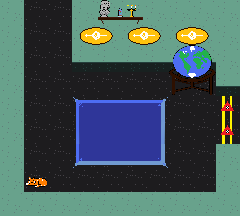
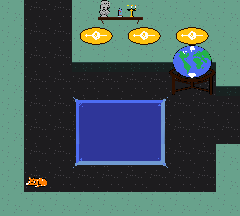
humanas3

Changed region(s): [[0.9042, 0.4444, 0.9917, 0.6667]]

diff --git a/pages/humanas3.html b/pages/humanas3.html
@@ -1,0 +1,136 @@
+<link rel="stylesheet" href="../src/style.css">
+<script src="https://cdnjs.cloudflare.com/ajax/libs/jquery/3.7.1/jquery.min.js" integrity="sha512-v2CJ7UaYy4JwqLDIrZUI/4hqeoQieOmAZNXBeQyjo21dadnwR+8ZaIJVT8EE2iyI61OV8e6M8PP2/4hpQINQ/g==" crossorigin="anonymous" referrerpolicy="no-referrer"></script>
+
+<style>
+    .map {
+    background-image: url("../img/Map015.png");
+    width: calc(15 * var(--grid-cell));
+    height: calc(13 * var(--grid-cell));
+    }
+
+    #taskSet {
+        width: 133px;
+        height: 90px;
+        top: 100px;
+        left: 125;
+    }
+
+    #taskOct {
+        width: 133px;
+        height: 90px;
+        top: 100px;
+        left: 415px;
+    }
+
+    #taskNov {
+        width: 133px;
+        height: 90px;
+        top: 100px;
+        right: 125px;
+    }
+
+    #goBack {
+        width: 95px;
+        height: 230px;
+        left: 0;
+        top: 350;
+    }
+</style>
+
+<body>
+    <div class="main">
+            <div class="child1">
+                <div class="title"><h1>Área de Humanas 3</h1></div>
+                <div id="message"></div>
+                <div class="frame">
+                    <div class="corner_topleft"></div>
+                    <div class="corner_topright"></div>
+                    <div class="corner_bottomleft"></div>
+                    <div class="corner_bottomright"></div>
+                    
+                    
+                    <div class="camera">
+                        <div class="map pixel-art">
+                            <div class="interactable" id="taskSet"></div>
+                            <div class="interactable" id="taskOct"></div>
+                            <div class="interactable" id="taskNov"></div>
+                            <div class="interactable" id="goBack"></div>
+                            <div class="character" facing="right" walking="true">
+                                <div class="shadow pixel-art"></div>
+                                <div class="character_spritesheet pixel-art"></div>
+                            </div>
+                        </div>
+                    </div>
+                </div>
+            </div>
+            <div class="child2">
+                <div class="title" id="att"><h1>Viewer de Atividades</h1></div>
+                <div class="media"></div>
+                <div class="description">
+                    <h3>Nesta área serão exibidas as atividades que você quiser oberservar. 
+                        Clique nos quadros dentro das salas de cada matéria para vê-las. Você 
+                        pode passar o mouse por cima para ver qual atividade é.</h3>
+                </div>
+            </div>
+    </div>
+    
+</body>
+
+<script src="../src/jquery-collision.js"></script>
+<script src="../src/index.js"></script>
+<script>
+    x = 25;
+    y = 90;
+    leftLimit = 15;
+    rightLimit = 195;
+    topLimit = 50;
+    bottomLimit = 160;
+
+    $('.interactable').hover(function() {
+        let id = $(this).attr('id');
+        switch(id) {
+            case 'taskSet':
+                $('#message').html('<h2>Migrações</h2>');
+                break;
+            case 'taskOct':
+                $('#message').html('<h2>Livro Infantil Sobre Existencialismo</h2>');
+                break;
+            case 'taskNov':
+                $('#message').html('<h2></h2>');
+                break;
+            case 'goBack':
+                $('#message').html('<h2>Entre nessa porta para voltar</h2>');
+                break;
+        }
+        setTimeout(function() {
+            $('#message').html('');
+        }, 3000);
+    })
+
+    $('.interactable').on('click', function() {
+        let id = $(this).attr('id');
+        let iframe = $(parent.document.getElementById("iframe"));
+        switch(id) {
+            case 'taskSet':
+                $('#att').html('<h1>Migrações</h1>');
+                $('.description').html('<h3>Este trabalho teve como objetivo estudar a migração de venezuelanos para países vizinhos, analisando as rotas, políticas migratórias e impactos socioeconômicos envolvidos. Utilizamos o Padlet para criar um mapa interativo, onde destacamos a rota geográfica, dados relevantes e incluímos artigos, imagens e casos reais de imigrantes.</h3>');
+                $('.media').html(' <iframe width="450" height="500"src="https://padlet.com/embed/32pyctbizytebsrg"></iframe> ')
+                break;
+            case 'taskOct':
+                $('#att').html('<h1>Livro Infantil Sobre Existencialismo</h1>');
+                $('.description').html('<h3>Este trabalho teve como objetivo explorar o existencialismo de forma acessível para crianças de 5 a 7 anos, por meio de um livro paradidático infantil. O livro apresenta conceitos essenciais como “liberdade”, “angústia” e “autenticidade”. Incluímos exemplos de personagens que vivem dilemas existencialistas como o Batman e o Lula molusco.</h3>');
+                $('.media').html('<iframe src="https://www.canva.com/design/DAGV1sepOT4/mLMS6TftaitZc-Cj1XgqWg/view?embed" width="450" height="500"></iframe>');
+                break;
+            case 'taskNov':
+                $('#att').html('<h1></h1>');
+                $('.description').html('<h3></h3>');
+                $('.media').html('<iframe src="" width="450" height="500" allow="autoplay"></iframe>');
+                break;
+            case 'goBack':
+                iframe.attr('src','./pages/humanas2.html');
+                break;
+        }
+    })
+
+    setInterval(() => {console.log($('.character').collision('.colidable'))}, 1000)
+</script>

diff --git a/pages/humanas2.html b/pages/humanas2.html
@@ -35,6 +35,13 @@
         left: 95;
         top: 0;
     }
+
+    #goFow {
+        width: 95px;
+        height: 230px;
+        right: 0;
+        top: 350;
+    }
 </style>
 
 <body>
@@ -55,6 +62,7 @@
                             <div class="interactable" id="taskJun"></div>
                             <div class="interactable" id="taskJul"></div>
                             <div class="interactable" id="goBack"></div>
+                            <div class="interactable" id="goFow"></div>
                             <div class="character" facing="down" walking="true">
                                 <div class="shadow pixel-art"></div>
                                 <div class="character_spritesheet pixel-art"></div>
@@ -101,6 +109,9 @@
             case 'goBack':
                 $('#message').html('<h2>Entre nessa porta para voltar</h2>');
                 break;
+            case 'goFow':
+                $('#message').html('<h2>Continue para o terceiro trimestre</h2>');
+                    break;
         }
         setTimeout(function() {
             $('#message').html('');
@@ -128,6 +139,9 @@
                 break;
             case 'goBack':
                 iframe.attr('src','./pages/humanas.html');
+                break;
+            case 'goFow':
+                iframe.attr('src', './pages/humanas3.html');
                 break;
         }
     })
